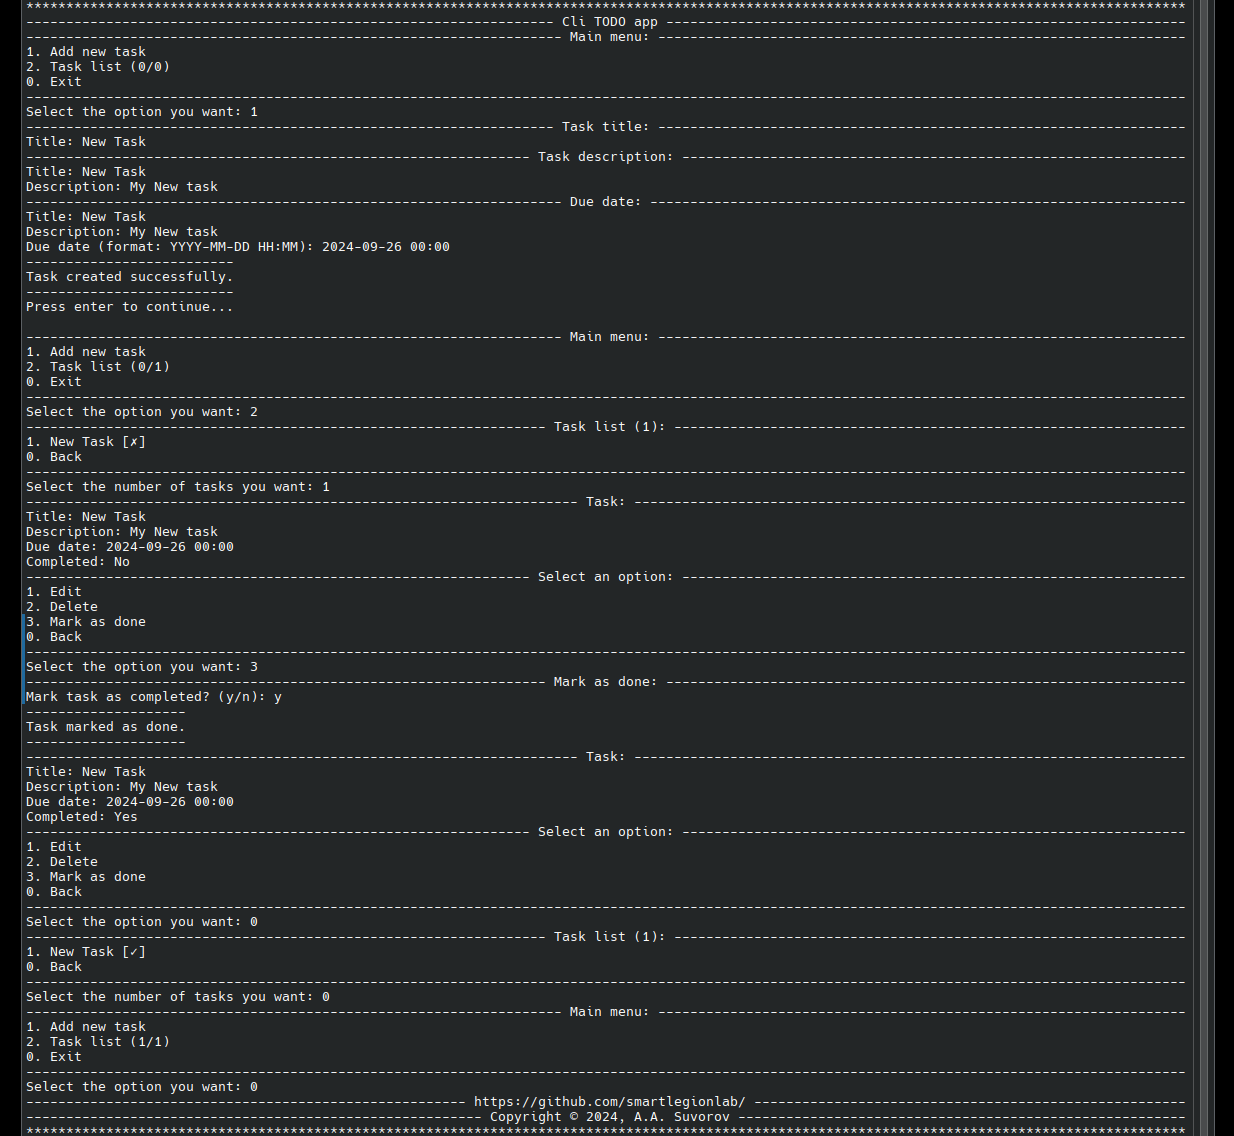
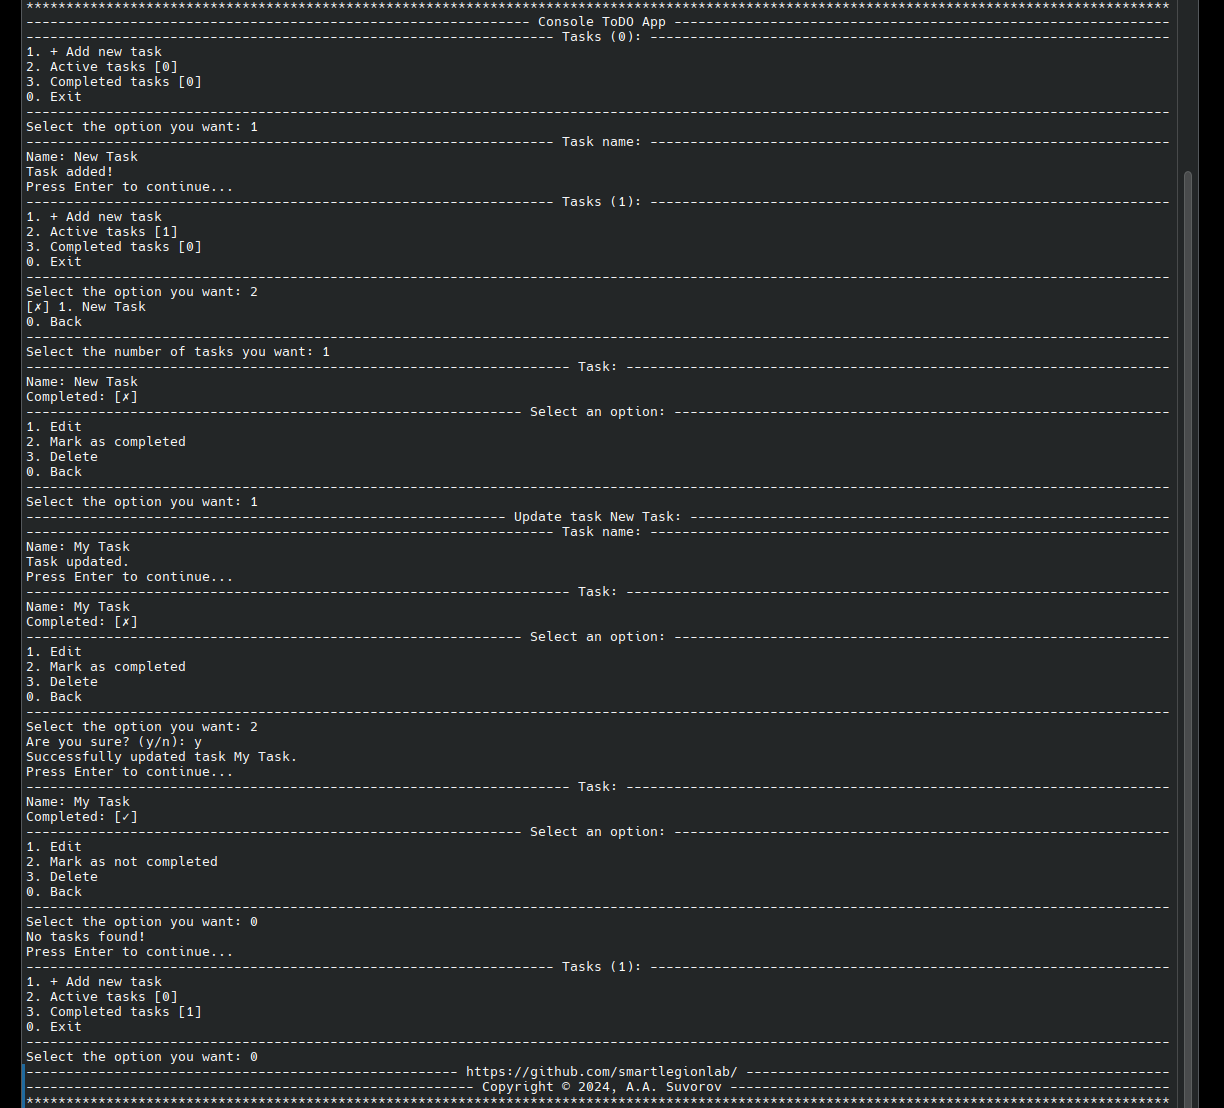
Console ToDo app v0.2.0

diff --git a/smartlib/view.py b/smartlib/view.py
@@ -27,9 +27,10 @@ class TaskView:
         print(f'3. Completed tasks [{completed_count}]')
         print('0. Exit')
 
-    def show_tasks(self, tasks):
+    @staticmethod
+    def show_tasks(tasks):
         for n, task in enumerate(tasks, 1):
-            print(f'{self.show_completed_task_emoji(task.completed)} {n}. {task.name}')
+            print(f'{task.get_completed_emoji} {n}. {task.name}')
         print(f'0. Back')
 
     @staticmethod
@@ -67,15 +68,11 @@ class TaskView:
 
     def show_task(self, task):
         self.printer.print_center(text='Task:')
-        print(f'Name: {task.name} | Uuid: {task.id}')
-        print(f'Completed: {self.show_completed_task_emoji(task.completed)}')
+        print(f'Name: {task.name}')
+        print(f'Completed: {task.get_completed_emoji}')
         self.printer.print_center(text='Select an option:')
         print('1. Edit')
         print('2. Mark as completed' if not task.completed else '2. Mark as not completed')
         print('3. Delete')
         print('0. Back')
         self.printer.print_center()
-
-    @staticmethod
-    def show_completed_task_emoji(status):
-        return '[✓]' if status else '[✗]'

diff --git a/smartlib/app_manager.py b/smartlib/app_manager.py
@@ -59,7 +59,6 @@ class AppManager:
                 self.view.show_tasks(tasks=tasks)
                 self.view.printer.print_center()
                 cmd = input('Select the number of tasks you want: ')
-
                 if cmd == '0':
                     break
 

diff --git a/smartlib/model.py b/smartlib/model.py
@@ -47,3 +47,7 @@ class Task:
     @id.setter
     def id(self, value):
         self._id = value
+
+    @property
+    def get_completed_emoji(self):
+        return '[✓]' if self.completed else '[✗]'

diff --git a/README.md b/README.md
@@ -1,4 +1,4 @@
-# Cli TODO app <sup>v0.1.3</sup>
+# Console ToDo app <sup>v0.2.0</sup>
 
 Console TODO app.
 
@@ -11,10 +11,26 @@ Console TODO app.
 
 ---
 
+## What's new:
+
+- Architectural code refactoring. Complete redesign. In progress.
+- The code has been rewritten using the MVC (Model-View-Controller) architecture.
+- Bugs fixed.
+- The user interface has been simplified and improved.
+- The structure and readability of the code has been improved, making it easier to maintain and extend functionality. (SOLID, DRY, MVC).
+- Complete refusal to store tasks in the json file. Only sqlite is now used to store tasks.
+
+## In the next updates:
+
+- Adding comments to tasks.
+
+---
+
 ## Use:
 
-- `python app.py`
-
+- Clone project
+- Go to the project folder
+- `python main.py`
 
 ---
 
